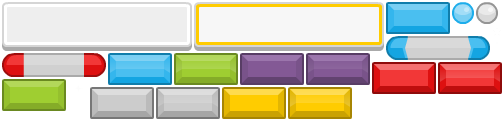
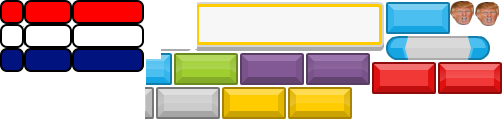
full canada

Changed region(s): [[0.0, 0.0, 0.4167, 0.9917], [0.8929, 0.0, 1.0, 0.2231]]

diff --git a/index.html b/index.html
@@ -128,21 +128,74 @@
                 return bricks;
             }
             createCanada(bricks) {
-                this.createTestBrick2(bricks, 3, 0, 0);
-                this.createTestBrick2(bricks, 3, 3, 0);
-                this.createTestBrick2(bricks, 3, 6, 0);
-                this.createTestBrick2(bricks, 3, 9, 0);
-                this.createTestBrick2(bricks, 3, 12, 0);
-                this.createTestBrick2(bricks, 1, 15, 0);
-                this.createTestBrick2(bricks, 1, 20, 0);
-                this.createTestBrick2(bricks, 3, 21, 0);
-                this.createTestBrick2(bricks, 1, 24, 0);
+                // line one
+                this.red(bricks, 3, 0, 0);
+                this.red(bricks, 3, 3, 0);
+                this.red(bricks, 3, 6, 0);
+                this.white(bricks, 3, 9, 0);
+                this.white(bricks, 3, 12, 0);
+                this.white(bricks, 1, 15, 0);
+                this.red(bricks, 1, 20, 0);
+                this.red(bricks, 3, 21, 0);
+                this.red(bricks, 1, 24, 0);
+                // line two
+                this.red(bricks, 2, 1, 1);
+                this.red(bricks, 3, 3, 1);
+                this.red(bricks, 3, 6, 1);
+                this.white(bricks, 3, 9, 1);
+                this.white(bricks, 3, 12, 1);
+                this.white(bricks, 3, 15, 1);
+                this.red(bricks, 2, 19, 1);
+                this.red(bricks, 3, 21, 1);
+                this.red(bricks, 3, 24, 1);
+                // line three
+                this.red(bricks, 2, 1, 2);
+                this.red(bricks, 3, 3, 2);
+                this.red(bricks, 3, 6, 2);
+                this.white(bricks, 3, 9, 2);
+                this.white(bricks, 3, 12, 2);
+                this.white(bricks, 3, 15, 2);
+                this.red(bricks, 3, 18, 2);
+                this.red(bricks, 3, 21, 2);
+                this.red(bricks, 3, 24, 2);
+                // line four
+                this.red(bricks, 3, 3, 3);
+                this.red(bricks, 3, 6, 3);
+                this.white(bricks, 3, 9, 3);
+                this.white(bricks, 3, 12, 3);
+                this.white(bricks, 3, 15, 3);
+                this.red(bricks, 3, 18, 3);
+                this.red(bricks, 3, 21, 3);
+                this.red(bricks, 3, 24, 3);
+                // line five
+                this.red(bricks, 1, 4, 4);
+                this.white(bricks, 3, 15, 4);
+                this.red(bricks, 3, 18, 4);
+                this.red(bricks, 3, 21, 4);
+                this.red(bricks, 1, 24, 4);
+                this.red(bricks, 2, 26, 4);
+                // line six
+                this.red(bricks, 3, 18, 5);
+                this.red(bricks, 1, 21, 5);
+                this.red(bricks, 3, 23, 5);
+                this.red(bricks, 1, 27, 5);
+                // line seven
+                this.red(bricks, 2, 18, 6);
+                this.red(bricks, 2, 23, 6);
+                // line eight
+                this.red(bricks, 1, 18, 7);
             }
-            createTestBrick2(bricks, size, x, y) {
+            white(bricks, size, x, y) {
+                this.createTestBrick(bricks,
+                    24*size, 24, // w, h
+                    (24*size/2)+x*24, 12+y*24, // x, y
+                    'white'+size);
+            }
+            red(bricks, size, x, y) {
                 this.createTestBrick(bricks, 
-                    32*size, 32, // w, h
-                    (32*size/2)+x*32, 16+y*32, // x, y
-                    'can'+size);
+                    24*size, 24, // w, h
+                    (24*size/2)+x*24, 12+y*24, // x, y
+                    'red'+size);
             }
             createTestBrick(bricks, w, h, x, y, kind) {
                 let brick = bricks.create(h, w, 'assets', kind);
@@ -215,7 +268,7 @@
             physics: {
                 default: 'arcade',
                 arcade: {
-                    debug: true
+                    debug: false
                 }
             },
             scale: {
